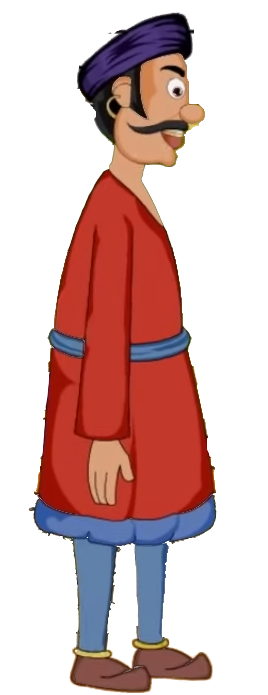
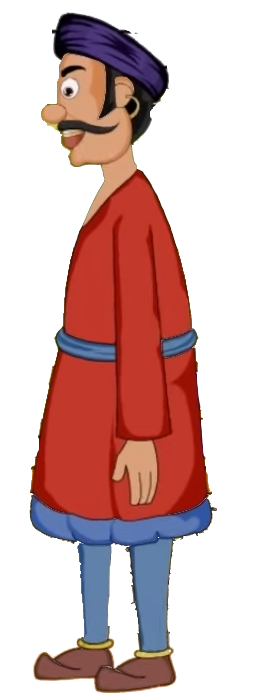
pictures corrected

Changed region(s): [[0.0896, 0.0, 0.806, 0.9971]]

diff --git a/script.js b/script.js
@@ -1,5 +1,5 @@
 $(document).ready(function(){
-    var images=["barber","brahmin","guard","king","tenali","barbers","brahmins","guards","kings"];
+    var images=["barber","brahmin","guard","king","tenali"];
     var character=[];
     var mapCharacter=[];
     $.getJSON("StoryChar.json",function(json){
@@ -10,12 +10,12 @@ $(document).ready(function(){
             for(var i=0;i<subs.length;i++){
 
                 subs[i]=subs[i].toLowerCase();
-                console.log("subs thing "+subs[i]);
+                //console.log("subs thing "+subs[i]);
             }
             for(var i=0;i<subs.length;i++){
                 for(var j=0;j<images.length;j++){
                     console.log(subs[i]==images[j]+" "+subs[i]+" == "+images[j]);
-                    if( subs[i]==images[j] ){
+                    if( (subs[i]==images[j]) || (subs[i]==images[j]+"s") ){
                         mapCharacter[(mapCharacter.length-1)]=(images[j]+".png");
                         break;
                     }
@@ -39,6 +39,7 @@ $(document).ready(function(){
             var bg="";
             var ch1="";
             var ch2="";
+            var frame=1;
 		$.each(json,function(){
                     var dia1="";
                     var dia2="";
@@ -51,7 +52,7 @@ $(document).ready(function(){
                         dia1=this['dialogue'][0];
                         dia2=this['dialogue'][1];
                     }
-                    alert("hello");
+                    //alert("hello");
                     var char1="";
                     var char2="";
                     if(this['character'].length==1){
@@ -73,8 +74,8 @@ $(document).ready(function(){
                     }
                     var content='<div id="main" class="main" style="background-image:url(images/forest.jpg)">';
                         //alert("Niythhin");
-			content=content+'<div id="place1" class="place1" style="background-image:url(images/'+char1+')">'+this['discription']+
-                                '<div id="message1" class="message"><br>'
+			content=content+'<div id="place1" class="place1" style="background-image:url(images/'+char1+')"><div class="message">Frame '+frame+'<br>'+this['discription']+
+                                '</div><div id="message1" class="message"><br>'
                                 +dia1+
                                 '</div></div>'+
                                 '<div id="place2" class="place2" style="background-image:url(images/'+char2+')" >'+
@@ -87,7 +88,7 @@ $(document).ready(function(){
                         //$(".place1").css({"background-image": "url('images/"+ch1+"')"});
                         //$(".place2").css({"background-image": "url('images/"+ch2+"')", "background-size":"contain"});
                         //$(".main").css({"background-image": "url('images/"+bg+"')"});
-                        
+                        frame=frame+1;
                 });
                 $("#moral").animate({opacity:1});
                 $("#press").attr("disabled","true");                     

diff --git a/style.css b/style.css
@@ -38,6 +38,7 @@ button:hover{
     margin-right: auto;
     border-left: 2px solid graytext;
     border-right: 2px solid graytext;
+    font-size: 18px;
     height:600px;
     
 }
@@ -64,6 +65,7 @@ button:hover{
     clear: both;
 }
 .place1{
+    -webkit-transform:scaleX(-1);
     background-size: contain;
     float: left;
     margin-left: 100px;
@@ -77,10 +79,11 @@ button:hover{
     color: white;
     font-size: 20px;
 }
-.message1{
+.message{
     color: white;
     padding: 10px;
     text-align: center;
+    -webkit-transform:scaleX(-1);
     
 }
 #header{
